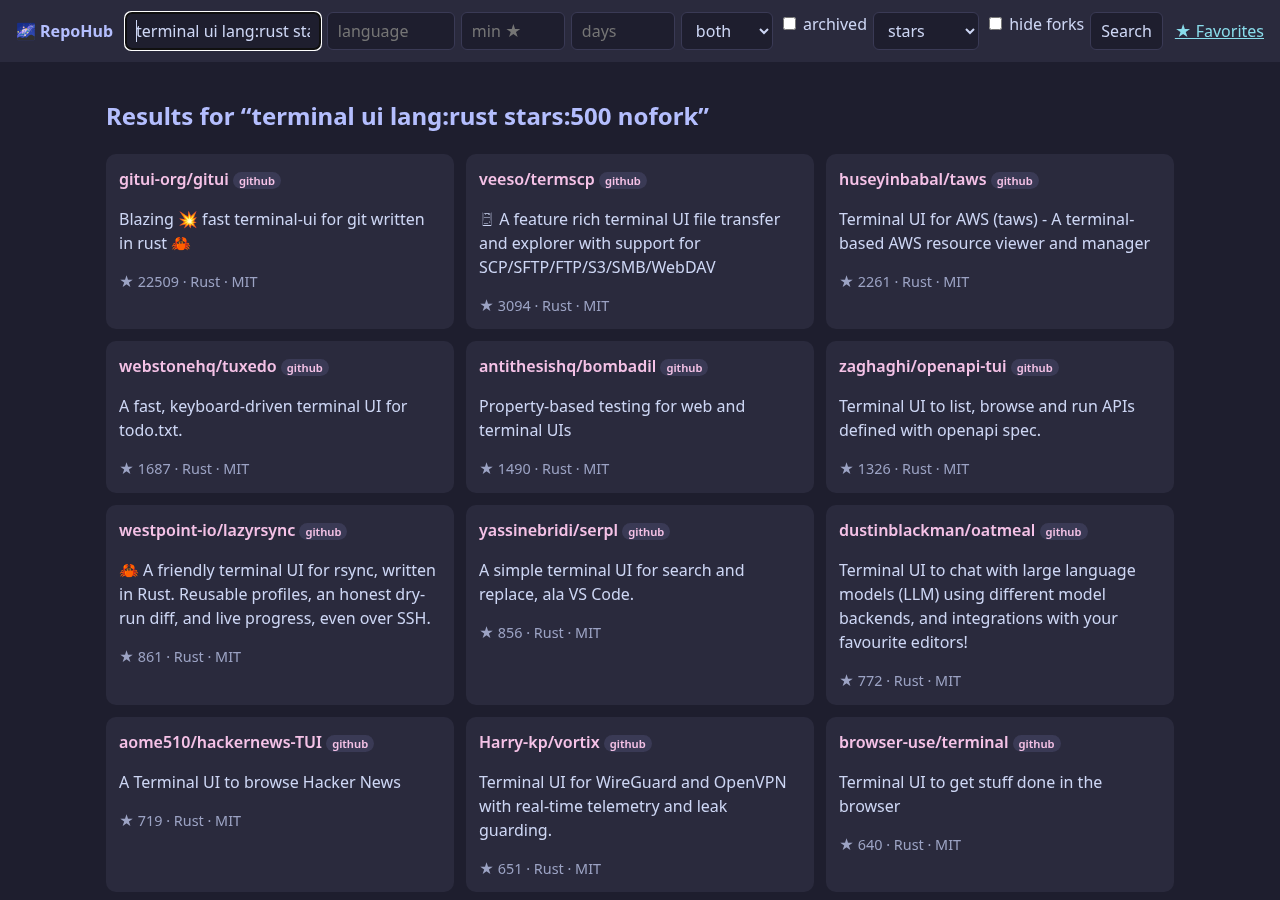
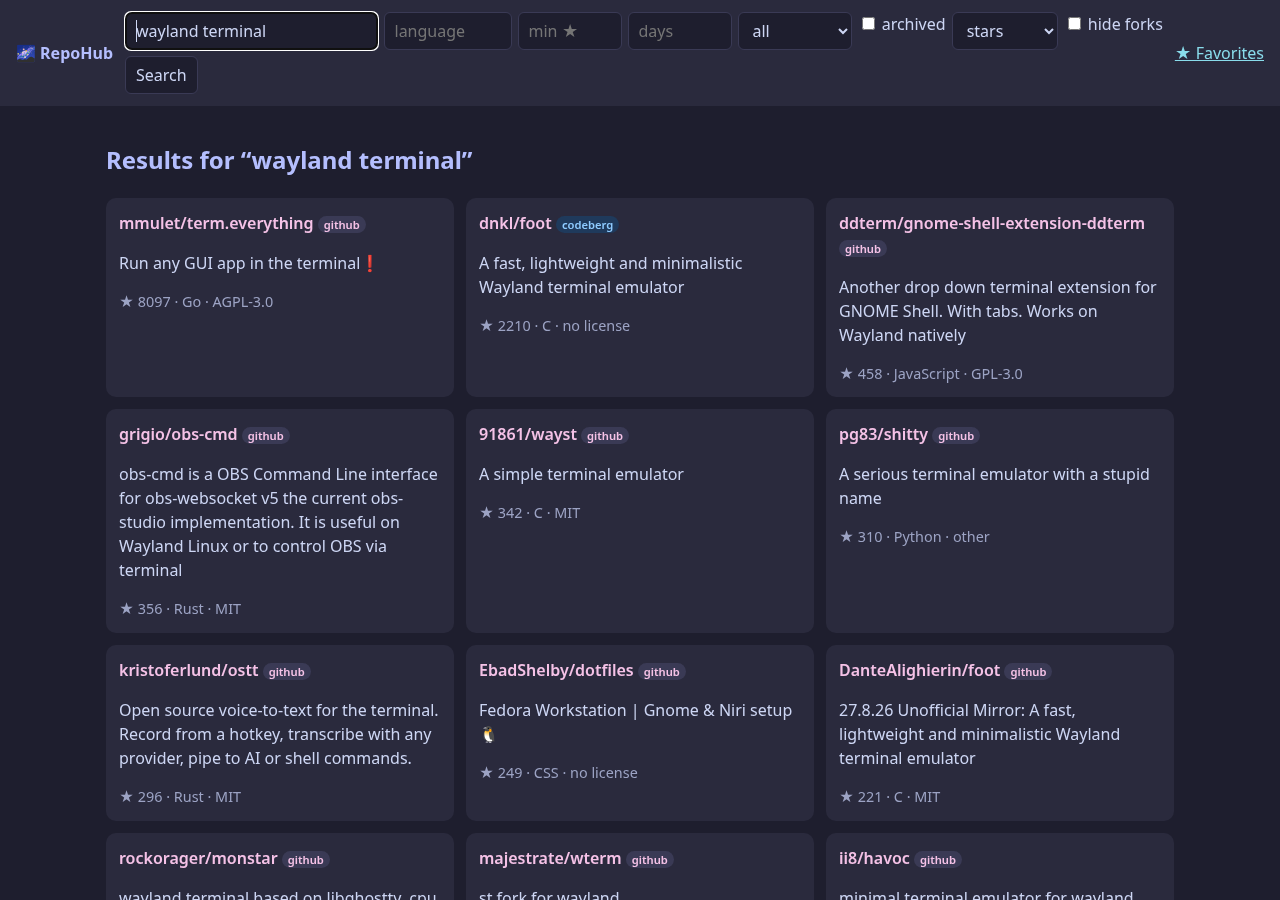
docs: refresh screenshots to show Codeberg and the all-hosts search

diff --git a/README.md b/README.md
@@ -118,7 +118,9 @@ Open a repository to read its README and release info. Press `f` to favorite it 
 Search across all hosts with filters, then open any repo for a store-style page.
 
 <p align="center">
-  <img src="docs/assets/web-search.png" alt="Web app: search results for 'terminal ui'" width="92%">
+  <img src="docs/assets/web-search.png" alt="Web app: search results for 'wayland terminal' from GitHub and Codeberg, each with its host badge" width="92%">
+  <br>
+  <sub>One search across every host: GitHub results and Codeberg's <code>dnkl/foot</code> (blue badge) ranked together. Captured 2026-09-21 with live data.</sub>
 </p>
 
 <p align="center">
@@ -142,6 +144,12 @@ RepoHub searches every configured host at once. Three are built in:
 | `github` | GitHub (`github.com`) | GitHub |
 | `gitlab` | GitLab (`gitlab.com`) | GitLab |
 | `codeberg` | Codeberg (`codeberg.org`) | Forgejo |
+
+<p align="center">
+  <img src="docs/assets/web-codeberg.png" alt="Web app: repository page for dnkl/foot on Codeberg with README, topics and the latest release" width="92%">
+  <br>
+  <sub>A Codeberg repository page: README, topics and the latest release. Captured 2026-09-21 with live data. (Forgejo does not expose a license, so it shows as "no license".)</sub>
+</p>
 
 ### More Forgejo and Gitea servers
 
